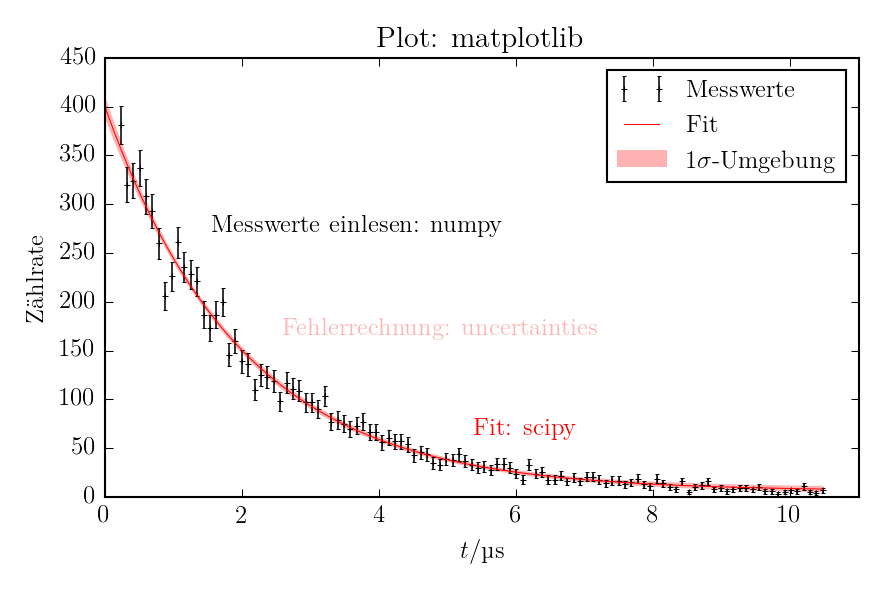
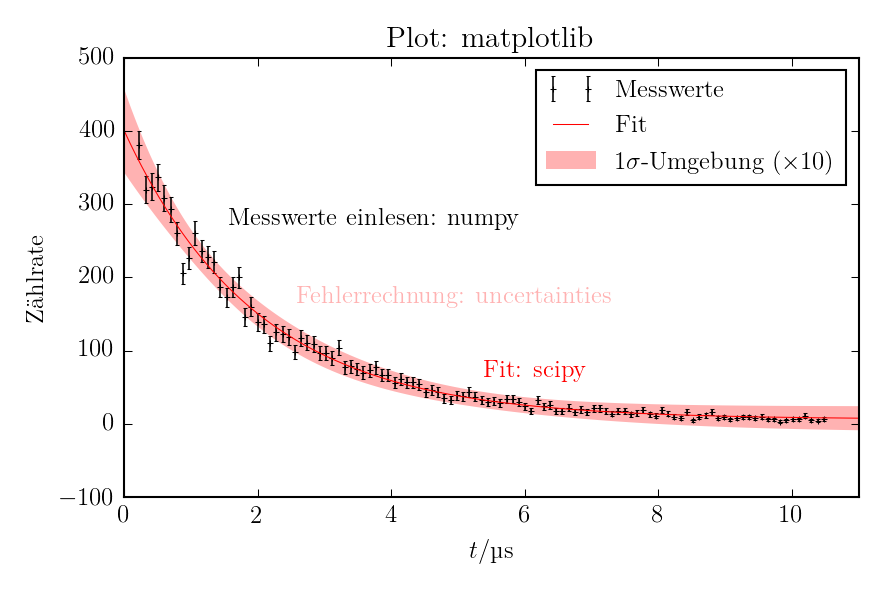
fixes for muon plot

diff --git a/python/muon_plot.py b/python/muon_plot.py
@@ -35,7 +35,7 @@ print("λ=", Lamb)
 print("U=", U)
 print("τ=", 1/Lamb)
 
-t_plot = np.linspace(0, max(t), 1000)
+t_plot = np.linspace(0, 11, 1000)
 y_plot = u_decay_with_background(t_plot, N0, Lamb, U)
 
 fig = plt.figure(figsize=(15/2.54, 10/2.54))
@@ -43,7 +43,7 @@ ax = fig.add_subplot(1,1,1)
 
 data = ax.errorbar(t, N, yerr=N_err, fmt='k+', label="Messwerte", capsize=1, ms=3, capthick=0.5, elinewidth=0.75)
 fit, = ax.plot(t_plot, nom(y_plot), 'r-', label="Fit", lw=0.5)
-ax.fill_between(t_plot, nom(y_plot)-2*std(y_plot), nom(y_plot)+2*std(y_plot),
+ax.fill_between(t_plot, nom(y_plot)-10*std(y_plot), nom(y_plot)+10*std(y_plot),
                 color='r', alpha=0.3, lw=0)
 
 ax.set_title("Plot: matplotlib")
@@ -59,7 +59,7 @@ ax.annotate("Fehlerrechnung: uncertainties", xy=(t[20],N[20]),
 
 proxy = Rectangle((0,0),0,0, color='r', alpha=0.3, linewidth=0)
 
-ax.legend([data, fit, proxy], ["Messwerte", "Fit", r"$1\sigma$-Umgebung"], loc="best")
+ax.legend([data, fit, proxy], ["Messwerte", "Fit", r"$1\sigma$-Umgebung ($\times 10$)"], loc="best")
 ax.set_xlabel(r"$t/\si{\micro\second}$")
 ax.set_ylabel(r"Zählrate")
 ax.set_xlim(0,11)
